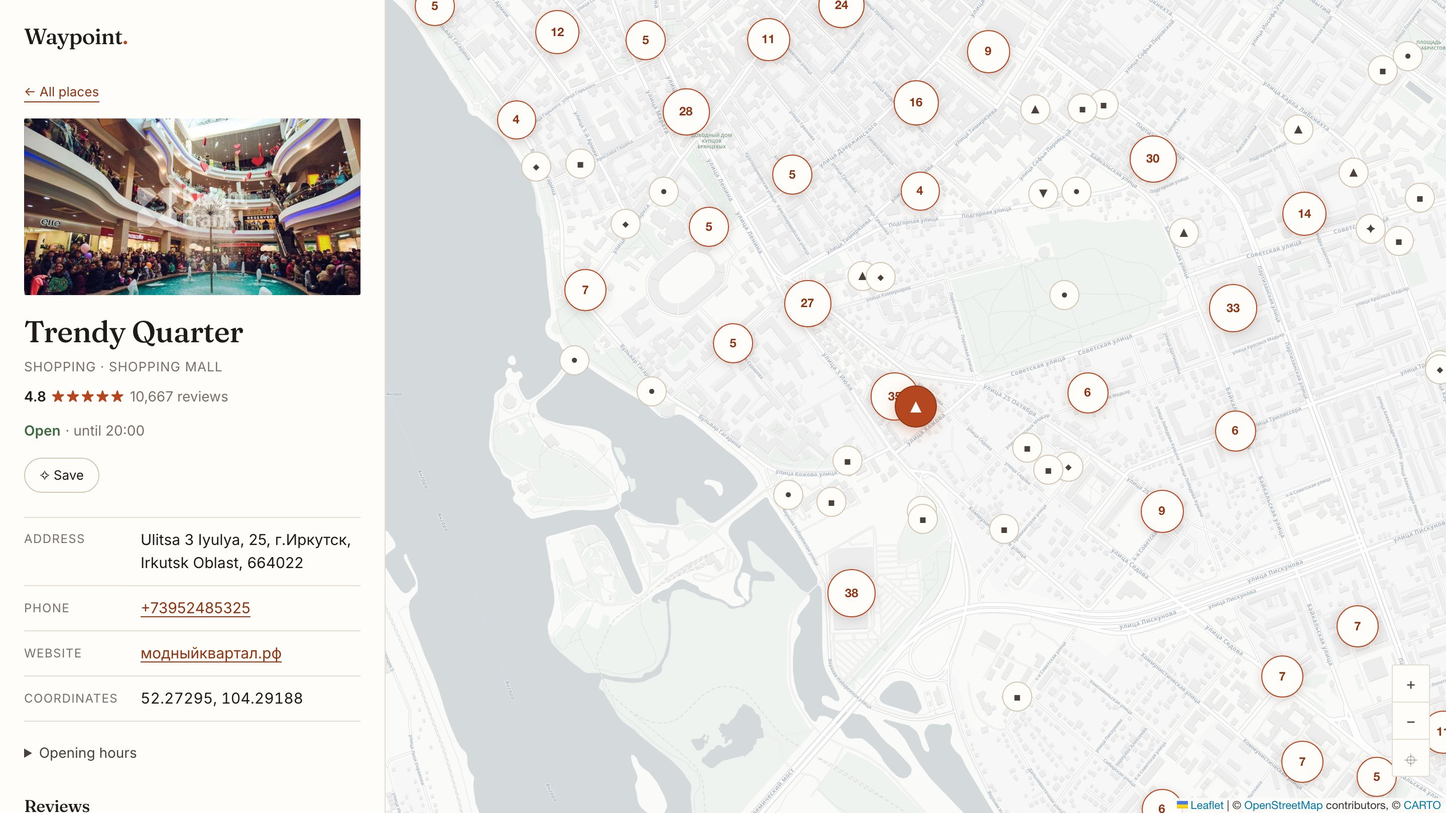
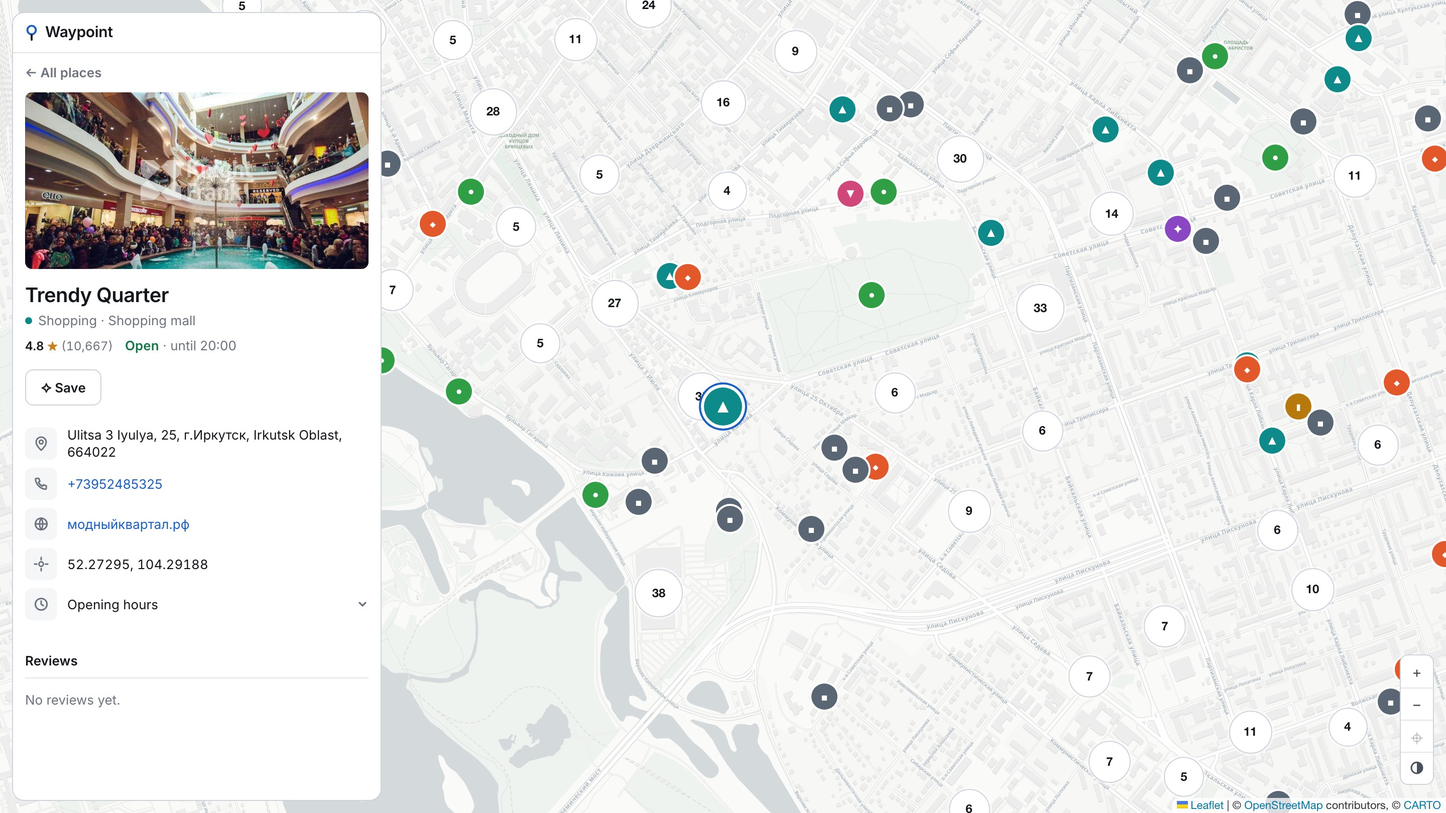
Reshoot the screenshots against the new interface
All three still showed the cream-and-serif version, which no longer exists.
Same three viewports and the same two subjects as before, so the README reads
the way it did.

diff --git a/README.md b/README.md
@@ -16,11 +16,13 @@ Every tile, marker, popup and control on screen is rendered by Leaflet against o
 Nothing here is an embedded Google map, and that was the point of building it:
 
 - **No vendor lock-in.** The basemap is a URL template. Switching from CARTO to Stadia, to a
-  self-hosted tile server, or to raw OSM tiles is one environment variable.
+  self-hosted tile server, or to raw OSM tiles is one environment variable. The light/dark
+  control on the map is the same idea with two of them.
 - **No metered API.** The Google Maps JavaScript API bills per map load. This runs on tiles that
   cost nothing at this scale, so a demo can stay online indefinitely.
 - **Control over rendering.** Markers are DOM elements styled with the same CSS as the rest of the
-  interface, so the map is part of the design rather than an iframe with its own opinions.
+  interface, so the map is part of the design rather than an iframe with its own opinions — each
+  pin carries its category's colour, so the map is legible by kind and not just by position.
 
 The trade is real and worth stating: there is no routing, no Street View, and no places database.
 For a viewer over a dataset you own, none of those are needed.
